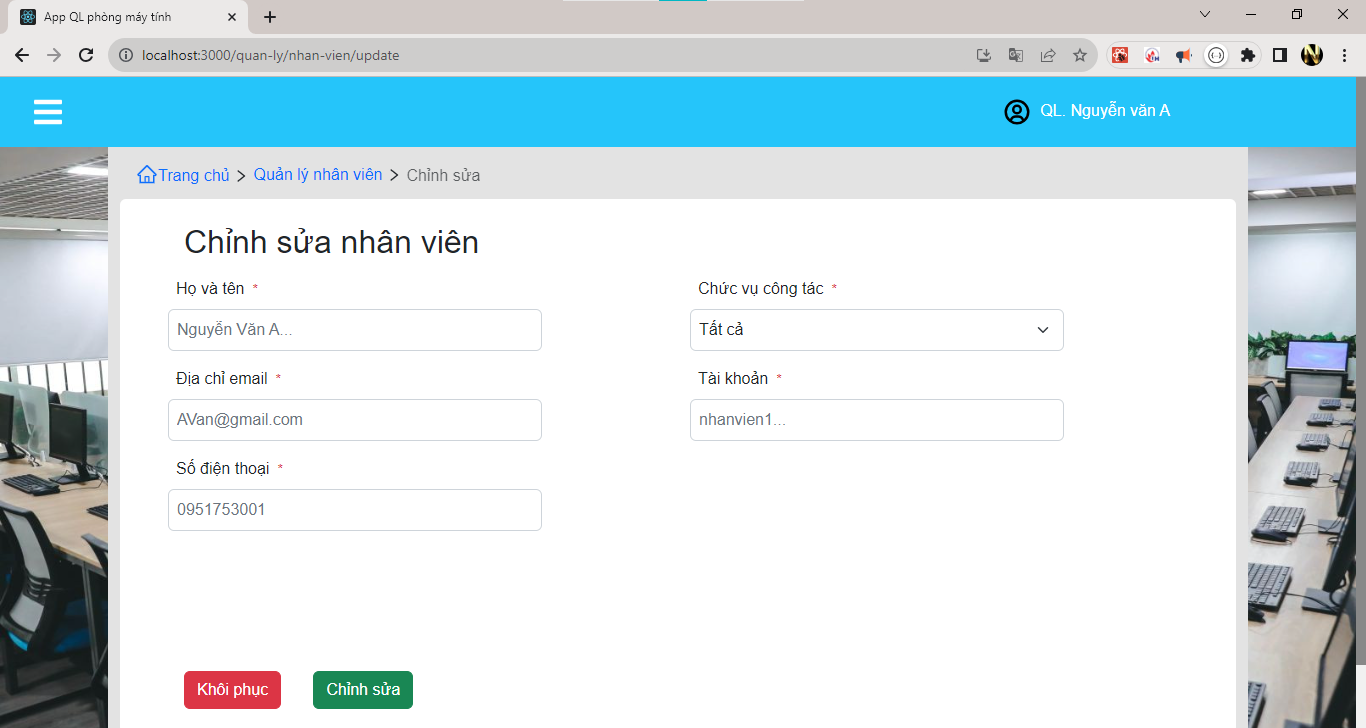
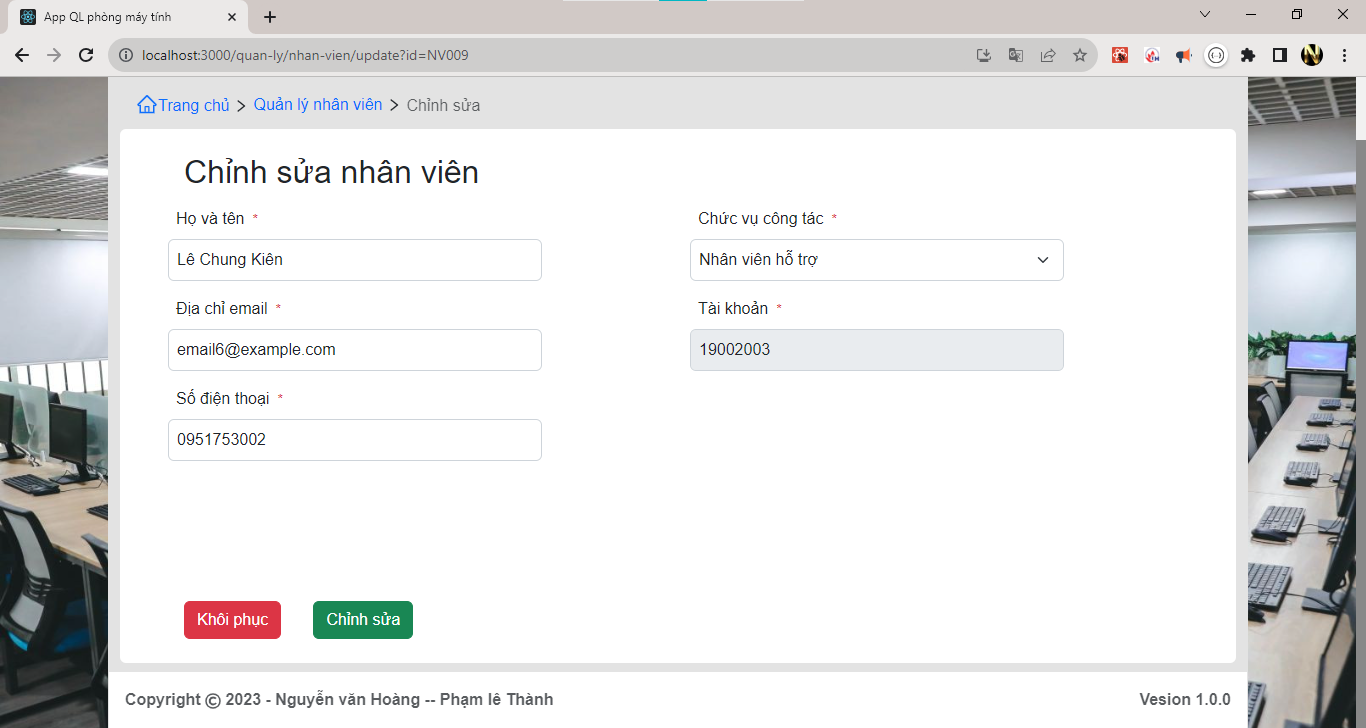
QL Nhan vien : finish update NV theo api

diff --git a/src/components/layout/Edit/FormUpdateNhanVien.jsx b/src/components/layout/Edit/FormUpdateNhanVien.jsx
@@ -2,12 +2,25 @@ import React, { useEffect, useRef, useState } from "react";
 import Footer from "../../common/Footer/Footer";
 import NavTab from "../../common/NavTab/NavTab";
 import { useDispatch, useSelector } from "react-redux";
-import { getAllNhanVienApi, insertNhanVienApi } from "../../../redux/reducers/nhanVienReducer";
+import {
+  getAllNhanVienApi,
+  insertNhanVienApi,
+  updateNhanVienApi,
+} from "../../../redux/reducers/nhanVienReducer";
 import { getAllTaiKhoanApi } from "../../../redux/reducers/taiKhoanReducer";
 import { getAllChucVuApi } from "../../../redux/reducers/chucVuReducer";
+import { useLocation, useNavigate } from "react-router-dom";
+
+let objData_old = {};
 
 export default function FormUpdateNhanVien() {
+  //
   const dispatch = useDispatch();
+  const navigate = useNavigate();
+  // nhan data gui theo uri
+  const location = useLocation();
+  const searchParams = new URLSearchParams(location.search);
+  const objParam = Object.fromEntries(searchParams);
   //
   let { arrTaiKhoan } = useSelector((state) => state.taiKhoanReducer);
   let { arrChucVu } = useSelector((state) => state.chucVuReducer);
@@ -29,22 +42,26 @@ export default function FormUpdateNhanVien() {
   });
 
   useEffect(() => {
+    if (objParam.id == null) {
+      navigate("/quan-ly/nhan-vien");
+    }
     if (arrNhanVien.length === 0) {
-      dispatch(getAllNhanVienApi);
+      navigate("/quan-ly/nhan-vien");
+    } else {
+      objData_old = arrNhanVien.find((item) => item.maNV == objParam.id);
+
+      objData_old = {
+        ...objData_old,
+        txtTaiKhoan: objData_old.taiKhoan.tenDangNhap,
+      };
+      objNhanVien.current = {
+        ...objData_old,
+      };
+
+      setErrNhanVien({ ...errNhanVien });
     }
     if (arrTaiKhoan.length === 0) {
       dispatch(getAllTaiKhoanApi);
-    }
-    if (arrChucVu.length === 0) {
-      dispatch(getAllChucVuApi);
-    } else {
-      objNhanVien.current = {
-        tenNV: "",
-        sDT: "",
-        email: "",
-        txtTaiKhoan: "",
-        chucVu: arrChucVu[0],
-      };
     }
   }, []);
 
@@ -63,8 +80,8 @@ export default function FormUpdateNhanVien() {
 
     let { tenNV, sDT, email, txtTaiKhoan, chucVu } = objNhanVien.current;
 
-    if(txtTaiKhoan.trim().length === 0){
-      err_taiKhoan = "Hãy nhập thông tin!"
+    if (txtTaiKhoan.trim().length === 0) {
+      err_taiKhoan = "Hãy nhập thông tin!";
       result = false;
     }
     //
@@ -84,10 +101,7 @@ export default function FormUpdateNhanVien() {
     if (sDT.trim().length === 0) {
       err_sDT = "Hãy nhập thông tin!";
       result = false;
-    } else if (
-      sDT.trim().length < 9 ||
-      sDT.trim().length > 15
-    ) {
+    } else if (sDT.trim().length < 9 || sDT.trim().length > 15) {
       err_sDT = "Số điện thoại có trên 9 số và nhỏ hơn 15 số!";
       result = false;
     } else if (!regexPhone.test(sDT)) {
@@ -100,14 +114,13 @@ export default function FormUpdateNhanVien() {
       result = false;
     }
 
-
     setErrNhanVien({
       tenNV: err_tenNV,
       sDT: err_sDT,
       email: err_email,
       chucVu: err_chucVu,
       taiKhoan: err_taiKhoan,
-    })
+    });
 
     return result;
   };
@@ -120,44 +133,32 @@ export default function FormUpdateNhanVien() {
       return;
     }
     //true
-    // check trung Tai khoan
-    let objTaiKhoan = arrTaiKhoan.find(item => item.tenDangNhap == objNhanVien.current.txtTaiKhoan )
 
-    if(objTaiKhoan != null){
-      alert('Trùng tài khoản!')
-      return;
-    }
     //
-    let maNhanVien = getRandomMaNV(arrNhanVien);
-    //
-    let {txtTaiKhoan, chucVu} = objNhanVien.current 
+    let { chucVu, taiKhoan } = objNhanVien.current;
 
-    let quyen = {} ;
+    let quyen = {};
 
-    if(chucVu.tenCV.includes('Nhân viên quản lý')) {
+    if (chucVu.tenCV.includes("Nhân viên quản lý")) {
       quyen = {
         maQuyen: 1,
-        tenQuyen: "Người quản lý"
-        }
-    }
-    else {
+        tenQuyen: "Người quản lý",
+      };
+    } else {
       quyen = {
         maQuyen: 3,
-        tenQuyen: "Nhân viên"
-        }
+        tenQuyen: "Nhân viên",
+      };
     }
 
-    let taiKhoan =  {
-      maTK: maNhanVien,
-      tenDangNhap: txtTaiKhoan,
-      matKhau:'123456A',
-      quyen
-    }
+    let taiKhoanNew = {
+      ...taiKhoan,
+      quyen,
+    };
 
-    objNhanVien.current = {...objNhanVien.current, maNhanVien,taiKhoan}
+    objNhanVien.current = { ...objNhanVien.current, taiKhoanNew };
 
-    dispatch(insertNhanVienApi(objNhanVien.current))
-    
+    dispatch(updateNhanVienApi(objNhanVien.current));
   };
   //
   const handleChangeText = (e) => {
@@ -197,23 +198,16 @@ export default function FormUpdateNhanVien() {
 
   //render
   const renderSelectChucVu = () => {
-    if (Object.keys(objNhanVien.current.chucVu).length === 0) {
-      return (
-        <>
-          <option value={-1} selected>
-            Tất cả
-          </option>
-          {arrChucVu.map((item, index) => {
-            return (
-              <option key={index} value={item.maCV}>
-                {item.tenCV}
-              </option>
-            );
-          })}
-        </>
-      );
-    }
+    let { chucVu } = objNhanVien.current;
+
     return arrChucVu.map((item, index) => {
+      if (chucVu.maCV == item.maCV) {
+        return (
+          <option key={index} selected value={item.maCV}>
+            {item.tenCV}
+          </option>
+        );
+      }
       return (
         <option key={index} value={item.maCV}>
           {item.tenCV}
@@ -268,6 +262,7 @@ export default function FormUpdateNhanVien() {
                           className="form-control p-2"
                           name="tenNV"
                           id="tenNV"
+                          value={objNhanVien.current.tenNV}
                           aria-describedby="errTenNV"
                           placeholder="Nguyễn Văn A..."
                           onChange={handleChangeText}
@@ -290,6 +285,7 @@ export default function FormUpdateNhanVien() {
                           className="form-control p-2"
                           name="email"
                           id="email"
+                          value={objNhanVien.current.email}
                           aria-describedby="errEmail"
                           placeholder="AVan@gmail.com"
                           onChange={handleChangeText}
@@ -312,6 +308,7 @@ export default function FormUpdateNhanVien() {
                           className="form-control p-2"
                           name="sDT"
                           id="sDT"
+                          value={objNhanVien.current.sDT}
                           aria-describedby="errSoDT"
                           placeholder="0951753001"
                           onChange={handleChangeText}
@@ -357,9 +354,11 @@ export default function FormUpdateNhanVien() {
                           className="form-control p-2"
                           name="txtTaiKhoan"
                           id="txtTaiKhoan"
+                          value={objNhanVien.current.txtTaiKhoan}
                           aria-describedby="errTaiKhoan"
                           placeholder="nhanvien1..."
-                          onChange={handleChangeTextTaiKhoan}
+                          // onChange={handleChangeTextTaiKhoan}
+                          disabled
                         />
                       </div>
                     </div>
@@ -368,7 +367,23 @@ export default function FormUpdateNhanVien() {
 
                 {/* footer - form */}
                 <div className="">
-                  <button type="reset" className="btn btn-danger mx-3">
+                  <button
+                    type="reset"
+                    onClick={() => {
+                      objNhanVien.current = {
+                        ...objData_old,
+                      };
+
+                      setErrNhanVien({
+                        tenNV: "",
+                        sDT: "",
+                        email: "",
+                        chucVu: "",
+                        taiKhoan: "",
+                      });
+                    }}
+                    className="btn btn-danger mx-3"
+                  >
                     Khôi phục
                   </button>
                   <button type="submit" className="btn btn-success mx-3">
@@ -385,21 +400,3 @@ export default function FormUpdateNhanVien() {
     </>
   );
 }
-
-const getRandomMaNV = (arrData) => {
-  let idNext = "";
-  let objDataLast = arrData[arrData.length - 1];
-
-  let strId = objDataLast.maNV.slice(2);
-
-  let intId = parseInt(strId) + 1;
-
-  if (intId < 10) {
-    idNext = "NV00" + intId;
-  } else if (intId < 100) {
-    idNext = "NV0" + intId;
-  } else {
-    idNext = "NV" + intId;
-  }
-  return idNext;
-};

diff --git a/src/redux/reducers/nhanVienReducer.jsx b/src/redux/reducers/nhanVienReducer.jsx
@@ -97,7 +97,7 @@ const nhanVienReducer = createSlice({
         valueSelect
       );
     },
-    updateNhanVienAction: (state, action) => {
+    deleteNhanVienAction: (state, action) => {
       let maXoa = action.payload;
 
       let arrUpdate = state.arrNhanVien.filter(item => {
@@ -121,11 +121,38 @@ export const {
   setValueSelectNhanVienAction,
   setValueSearchNhanVien,
   insertNhanVienAction,
+  updateNhanVienAction,
+  deleteNhanVienAction
 } = nhanVienReducer.actions;
 export default nhanVienReducer.reducer;
 
 // -------------- Call API ---------------
+/**
+ * UPdate nhan vien 
+ * @param {*} nhanVien 
+ * @returns 
+ */
+export const updateNhanVienApi = (nhanVien) => {
+  return async(dispatch) => {
+    try {
+      let result = await http.post("/LuuNhanVien", nhanVien);
+      console.log(' dang dung api add - chua co api cho update');
 
+      dispatch(updateNhanVienAction(result.data));
+
+      history.push('/quan-ly/nhan-vien');
+    } catch (error) {
+      console.log("🚀 ~ file: nhanVienReducer.jsx:136 ~ returnasync ~ error:", error)
+      
+    }
+  }
+}
+
+/**
+ * add 1 Nhan vien
+ * @param {*} nhanVien 
+ * @returns 
+ */
 export const insertNhanVienApi = (nhanVien) => {
   return async (dispatch) => {
     try {

diff --git a/src/pages/PageQuanLy/PageQLNhanVien.jsx b/src/pages/PageQuanLy/PageQLNhanVien.jsx
@@ -43,10 +43,7 @@ export default function PageQLNhanVien() {
   };
   //render
   const renderDataNhanVien = () => {
-    // let item = {id: 2, idCode: 'NV0002', name: 'Trần Thị Lê', ngaySinh: 'Sun Jan 10 1982 00:00:00 GMT+0700 (GMT+07:00)', sdt: '0951753133',email:"O8tCSZpcx@gmail.com"}
-    // let index =1;
     return arrNhanVienSearch?.map((item, index) => {
-      let ngaySinh = new Date(item.ngaySinh);
       return (
         <tr key={index}>
           <td scope="row" style={{ fontWeight: 600, padding: "0 15px" }}>
@@ -60,7 +57,7 @@ export default function PageQLNhanVien() {
 
           <td style={{ display: "flex", justifyContent: "space-evenly" }}>
             <NavLink
-              to={"/quan-ly/nhan-vien/update"}
+              to={`/quan-ly/nhan-vien/update?id=${item.maNV}`}
             >
               <button
                 type="button"

diff --git a/README.md b/README.md
@@ -95,8 +95,9 @@
     - QL Phong khi them 1 phong chon so luong máy tính(VD 5 cai) có thế mặc định add 5 cái may tinh không? 
     - FormAddPhong: api chua duoc
     - PageQLKhoa - update: chua biet tat model
-    - gans valueSearch vaf valueSelect
+    -- gans valueSearch vaf valueSelect
     - taiKhoanReducer: chua co api update
+    --  error - select value: mối khi reset lại
 
 
 ## Tài liệu
